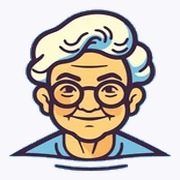
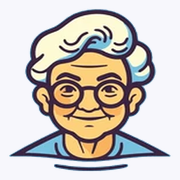
fixing assets of the application

diff --git a/client/src/renderer/src/pages/FrontPage.tsx b/client/src/renderer/src/pages/FrontPage.tsx
@@ -1,6 +1,6 @@
 'use client'
 
-import { useState } from 'react'
+import { useState, type CSSProperties } from 'react'
 import Link from 'next/link'
 import { useRouter } from 'next/navigation'
 import { motion, useReducedMotion, type Variants } from 'framer-motion'
@@ -72,6 +72,41 @@ const padX = 'clamp(20px, 5vw, 64px)'
 
 const easeOut = [0.22, 1, 0.36, 1] as const
 
+function AnimatedWords({
+  text,
+  style,
+  delay = 0,
+  as: Tag = 'span',
+  reduceMotion = false,
+}: {
+  text: string
+  style?: CSSProperties
+  delay?: number
+  as?: 'span' | 'strong'
+  reduceMotion?: boolean
+}) {
+  const words = text.split(' ')
+  return (
+    <Tag style={{ ...style, display: 'inline' }}>
+      {words.map((word, i) => (
+        <motion.span
+          key={`${word}-${i}`}
+          initial={reduceMotion ? false : { opacity: 0, y: 22, filter: 'blur(6px)' }}
+          animate={{ opacity: 1, y: 0, filter: 'blur(0px)' }}
+          transition={{
+            duration: reduceMotion ? 0 : 0.45,
+            delay: reduceMotion ? 0 : delay + i * 0.06,
+            ease: easeOut,
+          }}
+          style={{ display: 'inline-block', marginRight: '0.28em' }}
+        >
+          {word}
+        </motion.span>
+      ))}
+    </Tag>
+  )
+}
+
 function LaunchButton({
   children,
   primary,
@@ -141,22 +176,6 @@ export default function FrontPage() {
     launchWithName(name)
     setLaunchOpen(false)
     router.push(CARE_HOME)
-  }
-
-  const heroParent: Variants = {
-    hidden: {},
-    show: {
-      transition: { staggerChildren: reduceMotion ? 0 : 0.09, delayChildren: reduceMotion ? 0 : 0.05 },
-    },
-  }
-
-  const heroItem: Variants = {
-    hidden: { opacity: 0, y: reduceMotion ? 0 : 18 },
-    show: {
-      opacity: 1,
-      y: 0,
-      transition: { duration: 0.55, ease: easeOut },
-    },
   }
 
   const fadeUp: Variants = {
@@ -268,9 +287,11 @@ export default function FrontPage() {
             zIndex: 1,
           }}
         >
-          <motion.div variants={heroParent} initial="hidden" animate="show">
+          <div>
             <motion.p
-              variants={heroItem}
+              initial={{ opacity: 0, x: -16 }}
+              animate={{ opacity: 1, x: 0 }}
+              transition={{ duration: 0.5, ease: easeOut }}
               style={{
                 fontFamily: monoFont,
                 fontSize: 'clamp(22px, 3vw, 28px)',
@@ -280,10 +301,23 @@ export default function FrontPage() {
                 margin: '0 0 20px',
               }}
             >
-              <span style={{ color: BLUE }}>Nani</span>Ai
+              <motion.span
+                initial={{ opacity: 0 }}
+                animate={{ opacity: 1 }}
+                transition={{ delay: 0.15, duration: 0.4 }}
+                style={{ color: BLUE }}
+              >
+                Nani
+              </motion.span>
+              <motion.span
+                initial={{ opacity: 0 }}
+                animate={{ opacity: 1 }}
+                transition={{ delay: 0.28, duration: 0.4 }}
+              >
+                Ai
+              </motion.span>
             </motion.p>
-            <motion.h1
-              variants={heroItem}
+            <h1
               style={{
                 fontSize: 'clamp(32px, 5vw, 52px)',
                 fontWeight: 300,
@@ -294,12 +328,20 @@ export default function FrontPage() {
                 maxWidth: 560,
               }}
             >
-              Care that follows up,
+              <AnimatedWords text="Care that follows up," delay={0.2} reduceMotion={!!reduceMotion} />
               <br />
-              <strong style={{ fontWeight: 600, color: BLUE }}>like family would.</strong>
-            </motion.h1>
+              <AnimatedWords
+                text="like family would."
+                delay={0.48}
+                as="strong"
+                reduceMotion={!!reduceMotion}
+                style={{ fontWeight: 600, color: BLUE }}
+              />
+            </h1>
             <motion.p
-              variants={heroItem}
+              initial={{ opacity: 0, y: 16 }}
+              animate={{ opacity: 1, y: 0 }}
+              transition={{ duration: 0.55, delay: 0.85, ease: easeOut }}
               style={{
                 fontSize: 'clamp(15px, 1.6vw, 18px)',
                 lineHeight: 1.65,
@@ -312,7 +354,9 @@ export default function FrontPage() {
               something’s changed.
             </motion.p>
             <motion.div
-              variants={heroItem}
+              initial={{ opacity: 0, y: 14 }}
+              animate={{ opacity: 1, y: 0 }}
+              transition={{ duration: 0.5, delay: 1.05, ease: easeOut }}
               style={{ display: 'flex', gap: 12, flexWrap: 'wrap', alignItems: 'center' }}
             >
               <LaunchButton primary onClick={openLaunch}>
@@ -337,7 +381,7 @@ export default function FrontPage() {
                 Why we built this
               </a>
             </motion.div>
-          </motion.div>
+          </div>
           <motion.div
             initial={{ scaleY: 0 }}
             animate={{ scaleY: 1 }}
@@ -393,37 +437,37 @@ export default function FrontPage() {
             }}
           />
           <motion.img
-            src={NANI_LOGO_SRC}
+            src={`${NANI_LOGO_SRC}?v=2`}
             alt="NaniAi — a caring companion for your care episode"
-            width={380}
-            height={426}
-            initial={{ opacity: 0, y: 24, scale: 0.94 }}
+            width={466}
+            height={521}
+            decoding="async"
+            initial={{ opacity: 0, y: 20, scale: 0.96 }}
             animate={
               reduceMotion
                 ? { opacity: 1, y: 0, scale: 1 }
-                : {
-                    opacity: 1,
-                    y: [0, -10, 0],
-                    scale: 1,
-                  }
+                : { opacity: 1, y: [0, -8, 0], scale: 1 }
             }
             transition={
               reduceMotion
                 ? { duration: 0.5, ease: easeOut }
                 : {
-                    opacity: { duration: 0.6, ease: easeOut },
-                    scale: { duration: 0.6, ease: easeOut },
-                    y: { duration: 4.5, repeat: Infinity, ease: 'easeInOut', delay: 0.7 },
+                    opacity: { duration: 0.55, ease: easeOut },
+                    scale: { duration: 0.55, ease: easeOut },
+                    y: { duration: 5, repeat: Infinity, ease: 'easeInOut', delay: 0.8 },
                   }
             }
             style={{
               position: 'relative',
               zIndex: 1,
-              width: 'min(380px, 72%)',
+              width: 'min(420px, 78%)',
               height: 'auto',
               objectFit: 'contain',
               background: 'transparent',
-              filter: 'drop-shadow(0 22px 40px rgba(10, 10, 92, 0.18))',
+              imageRendering: 'auto',
+              WebkitBackfaceVisibility: 'hidden',
+              transform: 'translateZ(0)',
+              filter: 'drop-shadow(0 16px 28px rgba(10, 10, 92, 0.12))',
             }}
           />
         </div>

diff --git a/client/src/renderer/src/components/NaniLogo.tsx b/client/src/renderer/src/components/NaniLogo.tsx
@@ -7,7 +7,7 @@ import { CARE_HOME } from '../../../care/routes'
 export const NANI_LOGO_SRC = '/brand/naniai-logo.png'
 export const NANI_PRODUCT_NAME = 'NaniAi'
 /** Intrinsic artboard ratio after transparent crop (width / height). */
-export const NANI_LOGO_RATIO = 155 / 174
+export const NANI_LOGO_RATIO = 466 / 521
 
 type NaniLogoProps = {
   /** Icon height in px. */
